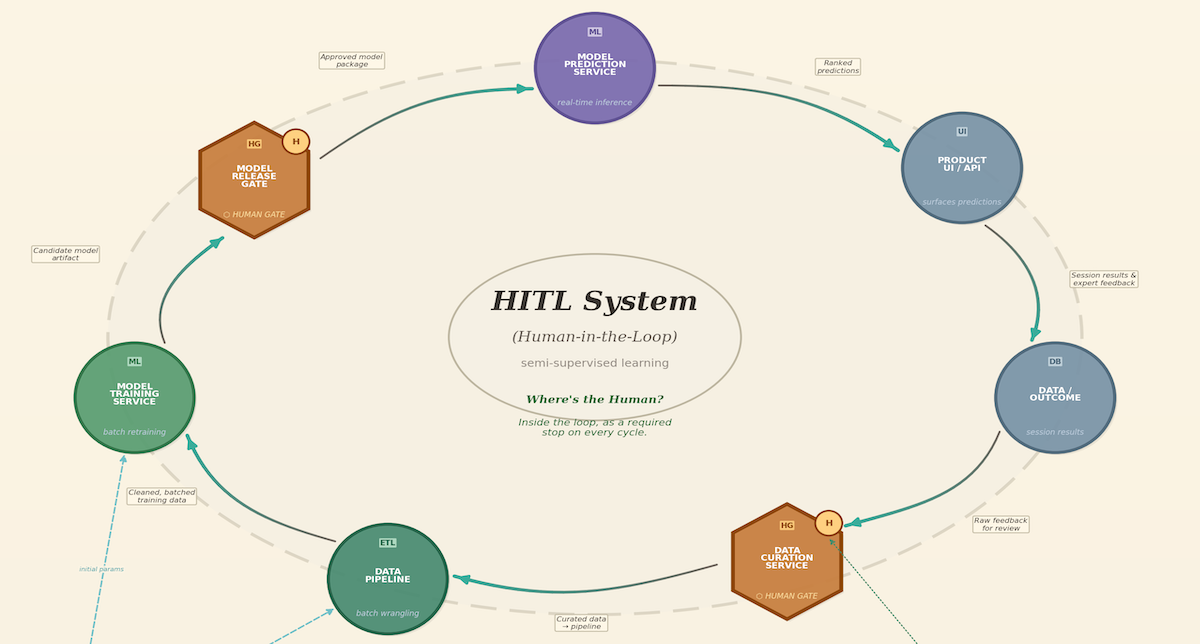
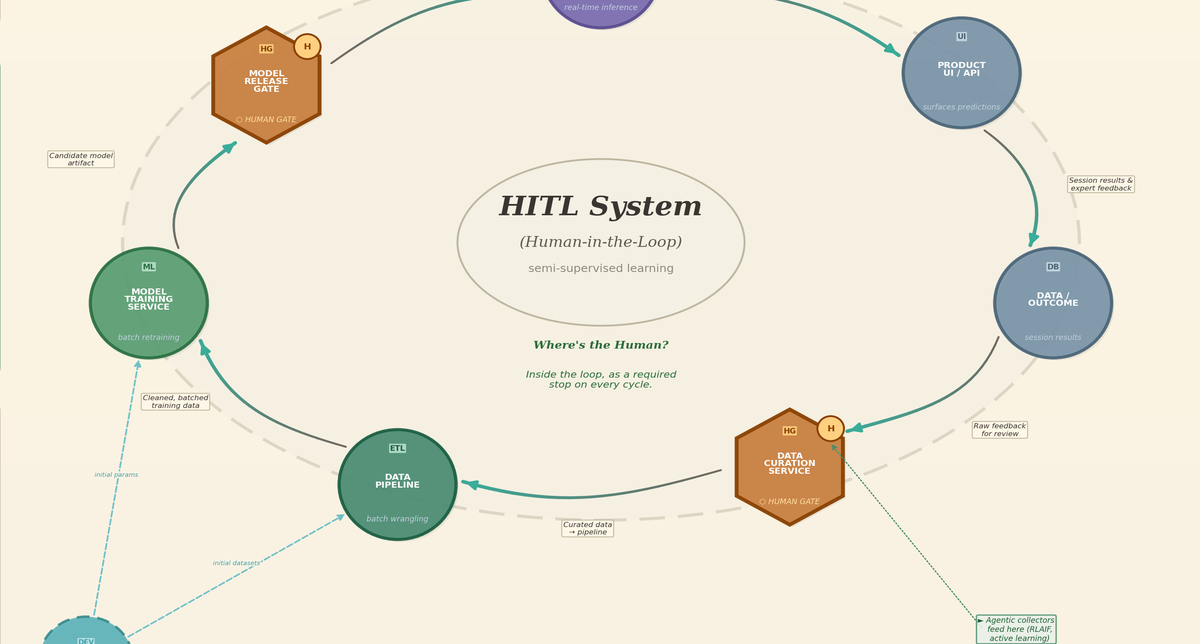
Update post and graphic.

diff --git a/_posts/2026-03-29-autonomous-ai-pt1-hitl.md b/_posts/2026-03-29-autonomous-ai-pt1-hitl.md
@@ -9,13 +9,9 @@ author: steven
 ---
 
 
-![HITL - A Semi-autonomous AI system](https://raw.githubusercontent.com/git-steven/git-steven.github.io/master/assets/images/hitl-governance-li.png)
+![HITL - A Semi-autonomous AI system](https://raw.githubusercontent.com/git-steven/git-steven.github.io/master/assets/images/hitl-infographic-graph.png)
 
 **_Your AI Looks Autonomous. It's probably not. Here's the Architecture Diagram to Prove It._**
-
-<a title="HITL Infographic" href="https://raw.githubusercontent.com/git-steven/git-steven.github.io/master/assets/images/hitl-infographic.png">
-    <img src="https://raw.githubusercontent.com/git-steven/git-steven.github.io/master/assets/images/hitl-infographic-anim.gif" alt="🧬HITL Architecture Infographic" width="400px"/>
-</a>
 
 
 > *"Many production AI systems are loop-shaped, but not closed-loop.  Human feedback, curation, and governance introduce delay, filtering, and control boundaries that prevent true autonomy."*
@@ -61,25 +57,23 @@ If your system has *any* of these, it's HITL. If it has *all four*, it's what I'
 
 ---
 
-## 🏛️ The Architecture: HITL Loop and Governance Overlays
+## 🏛️ The Architecture: HITL Loop and Human Gates
 
-The infographic below maps HITL architecture as an elliptical loop with governance overlays shown where the loop is "broken".
+The infographic below maps HITL architecture as an elliptical loop with two **HUMAN GATE** nodes (orange hexagons) where humans must approve before the loop can continue.
 
-<a title="HITL Infographic" href="https://raw.githubusercontent.com/git-steven/git-steven.github.io/master/assets/images/hitl-infographic.png">
-    <img src="https://raw.githubusercontent.com/git-steven/git-steven.github.io/master/assets/images/hitl-infographic.png" alt="🧬HITL Architecture Infographic" width="1000px"/>
-</a>
+<img src="https://raw.githubusercontent.com/git-steven/git-steven.github.io/master/assets/images/hitl-infographic.png" alt="🧬HITL Architecture Infographic" width="1000px"/>
 
 ### ⬭ The HITL System
 
 This is the main human-in-the-loop.  Predictions flow to users, users react, reactions get stored.
 
-It is NOT a closed loop in that there is a data curation team and a model governance team marked with  <span style="color: #BB7C4B"><em><strong>"GOVERNANCE"</strong></em></span>.
+It is NOT a closed loop: two orange hexagonal nodes labeled <span style="color: #BB7C4B"><em><strong>"HUMAN GATE"</strong></em></span> — `DATA CURATION SERVICE` and `MODEL RELEASE GATE` — sit inline on the loop and require human approval before downstream steps run.
 
 
 * **🧮 MODEL PREDICTION SERVICE:** _real-time results (classification/inference)_
-* **🖼️ PRODUCT UI:** _Automated predictions combined actual session info and expert user feedback_
+* **🖼️ PRODUCT UI / API:** _Automated predictions combined actual session info and expert user feedback_
 * **📑 DATA / OUTCOME:** _Storage of session outcome and expert user feedback_
-* <span style="color: #BB7C4B"><em><strong>👥 CURATION TEAM (GOVERNANCE):</strong></em></span>
+* <span style="color: #BB7C4B"><em><strong>👥 DATA CURATION SERVICE (HUMAN GATE):</strong></em></span>
   * Evaluates user session data and feedback from expert user
   * Select for inclusion or exclusion (or include with changes)
   * Sanity-check
@@ -97,15 +91,15 @@ It is NOT a closed loop in that there is a data curation team and a model govern
   * batch retraining
   * model tuning/ensembling
   * RL (reinforcement learning)
-* <span style="color: #BB7C4B"><em><strong>👥 MODEL VERIFICATION TEAM (GOVERNANCE):</strong></em></span>
+* <span style="color: #BB7C4B"><em><strong>👥 MODEL RELEASE GATE (HUMAN GATE):</strong></em></span>
   * QA of new model
   * Sanity check
 
-### ⛓️💥Governance Overlays: The Human Gatekeepers
-At the top-left and bottom-right are two governance boundaries (shown as dashed orange flows and orange boxes in the infographic):
+### 👥 Human Gates: The Architectural Control Surfaces
+At the top-left and bottom-right of the loop sit the two **HUMAN GATE** hexagons (orange) — they live *inside* the loop, but they break it semantically by requiring human sign-off:
 
-- **Store → Curation Team → Pipeline**: A curation team reviews session data and selects which signals are trustworthy enough for training. This prevents noisy or adversarial feedback from corrupting the model.
-- **Model Ensemble → Model Governance Team → Deployment**: A governance team validates model performance, checks for bias, and approves releases. No model reaches production without human sign-off.
+- **Data / Outcome → Data Curation Service → Data Pipeline**: A curation team reviews session data and selects which signals are trustworthy enough for training. This prevents noisy or adversarial feedback from corrupting the model.
+- **Model Training Service → Model Release Gate → Model Prediction Service**: A governance team validates model performance, checks for bias, and approves releases. No model reaches production without human sign-off.
 
 These aren't bureaucratic overhead. They're **architectural control surfaces**. Remove them, and your "AI-powered" system is one bad training batch away from recommending your worst matches for your best client.
 
@@ -121,13 +115,13 @@ Think about it: a fully autonomous AI — say, a large language model trained vi
 
 What breaks *our* loop is structural, not incidental. It's the two governance gates:
 
-- The **Curation Team**, which decides which feedback signals are trustworthy enough to enter the training pipeline
-- The **Model Governance Team**, which decides which trained models are ready to deploy
+- The **Data Curation Service** (a HUMAN GATE), which decides which feedback signals are trustworthy enough to enter the training pipeline
+- The **Model Release Gate** (a HUMAN GATE), which decides which trained models are ready to deploy
 
 Remove those two gates and the rest of the system — expert users rating matches, session outcomes accumulating, the pipeline ingesting data — could, in principle, run continuously. Add them back, and you have two asynchronous, human-bandwidth-constrained chokepoints that batch and gate everything downstream.
 
->The "Human" in Human-in-the-Loop doesn't *just* mean _users_.
->It also means **gatekeepers**.
+>The "Human" in Human-in-the-Loop doesn't mean *end* _users_.
+>It means **gatekeepers**.
 >And it's the _gatekeepers_ — not the _users_ — who keep this loop from closing.
 
 ---
@@ -179,7 +173,7 @@ The HITL architecture naturally implements a semi-supervised learning pattern. H
 
 The supervised signal is expensive (human-generated) and sparse. The unsupervised signal is cheap and abundant. The semi-supervised architecture lets you use the abundant signal to expand coverage while using the expensive signal to maintain quality.
 
-This is *exactly* the pattern described in Zhu & Goldberg's foundational work on semi-supervised learning — using a small amount of labeled data to guide learning from a large amount of unlabeled data. In a HITL system, the "labeling" happens through the operational loop, and the "guidance" happens through the governance overlay.
+This is *exactly* the pattern described in Zhu & Goldberg's foundational work on semi-supervised learning — using a small amount of labeled data to guide learning from a large amount of unlabeled data. In a HITL system, the "labeling" happens through the operational loop, and the "guidance" happens through the human gates.
 
 ---
 